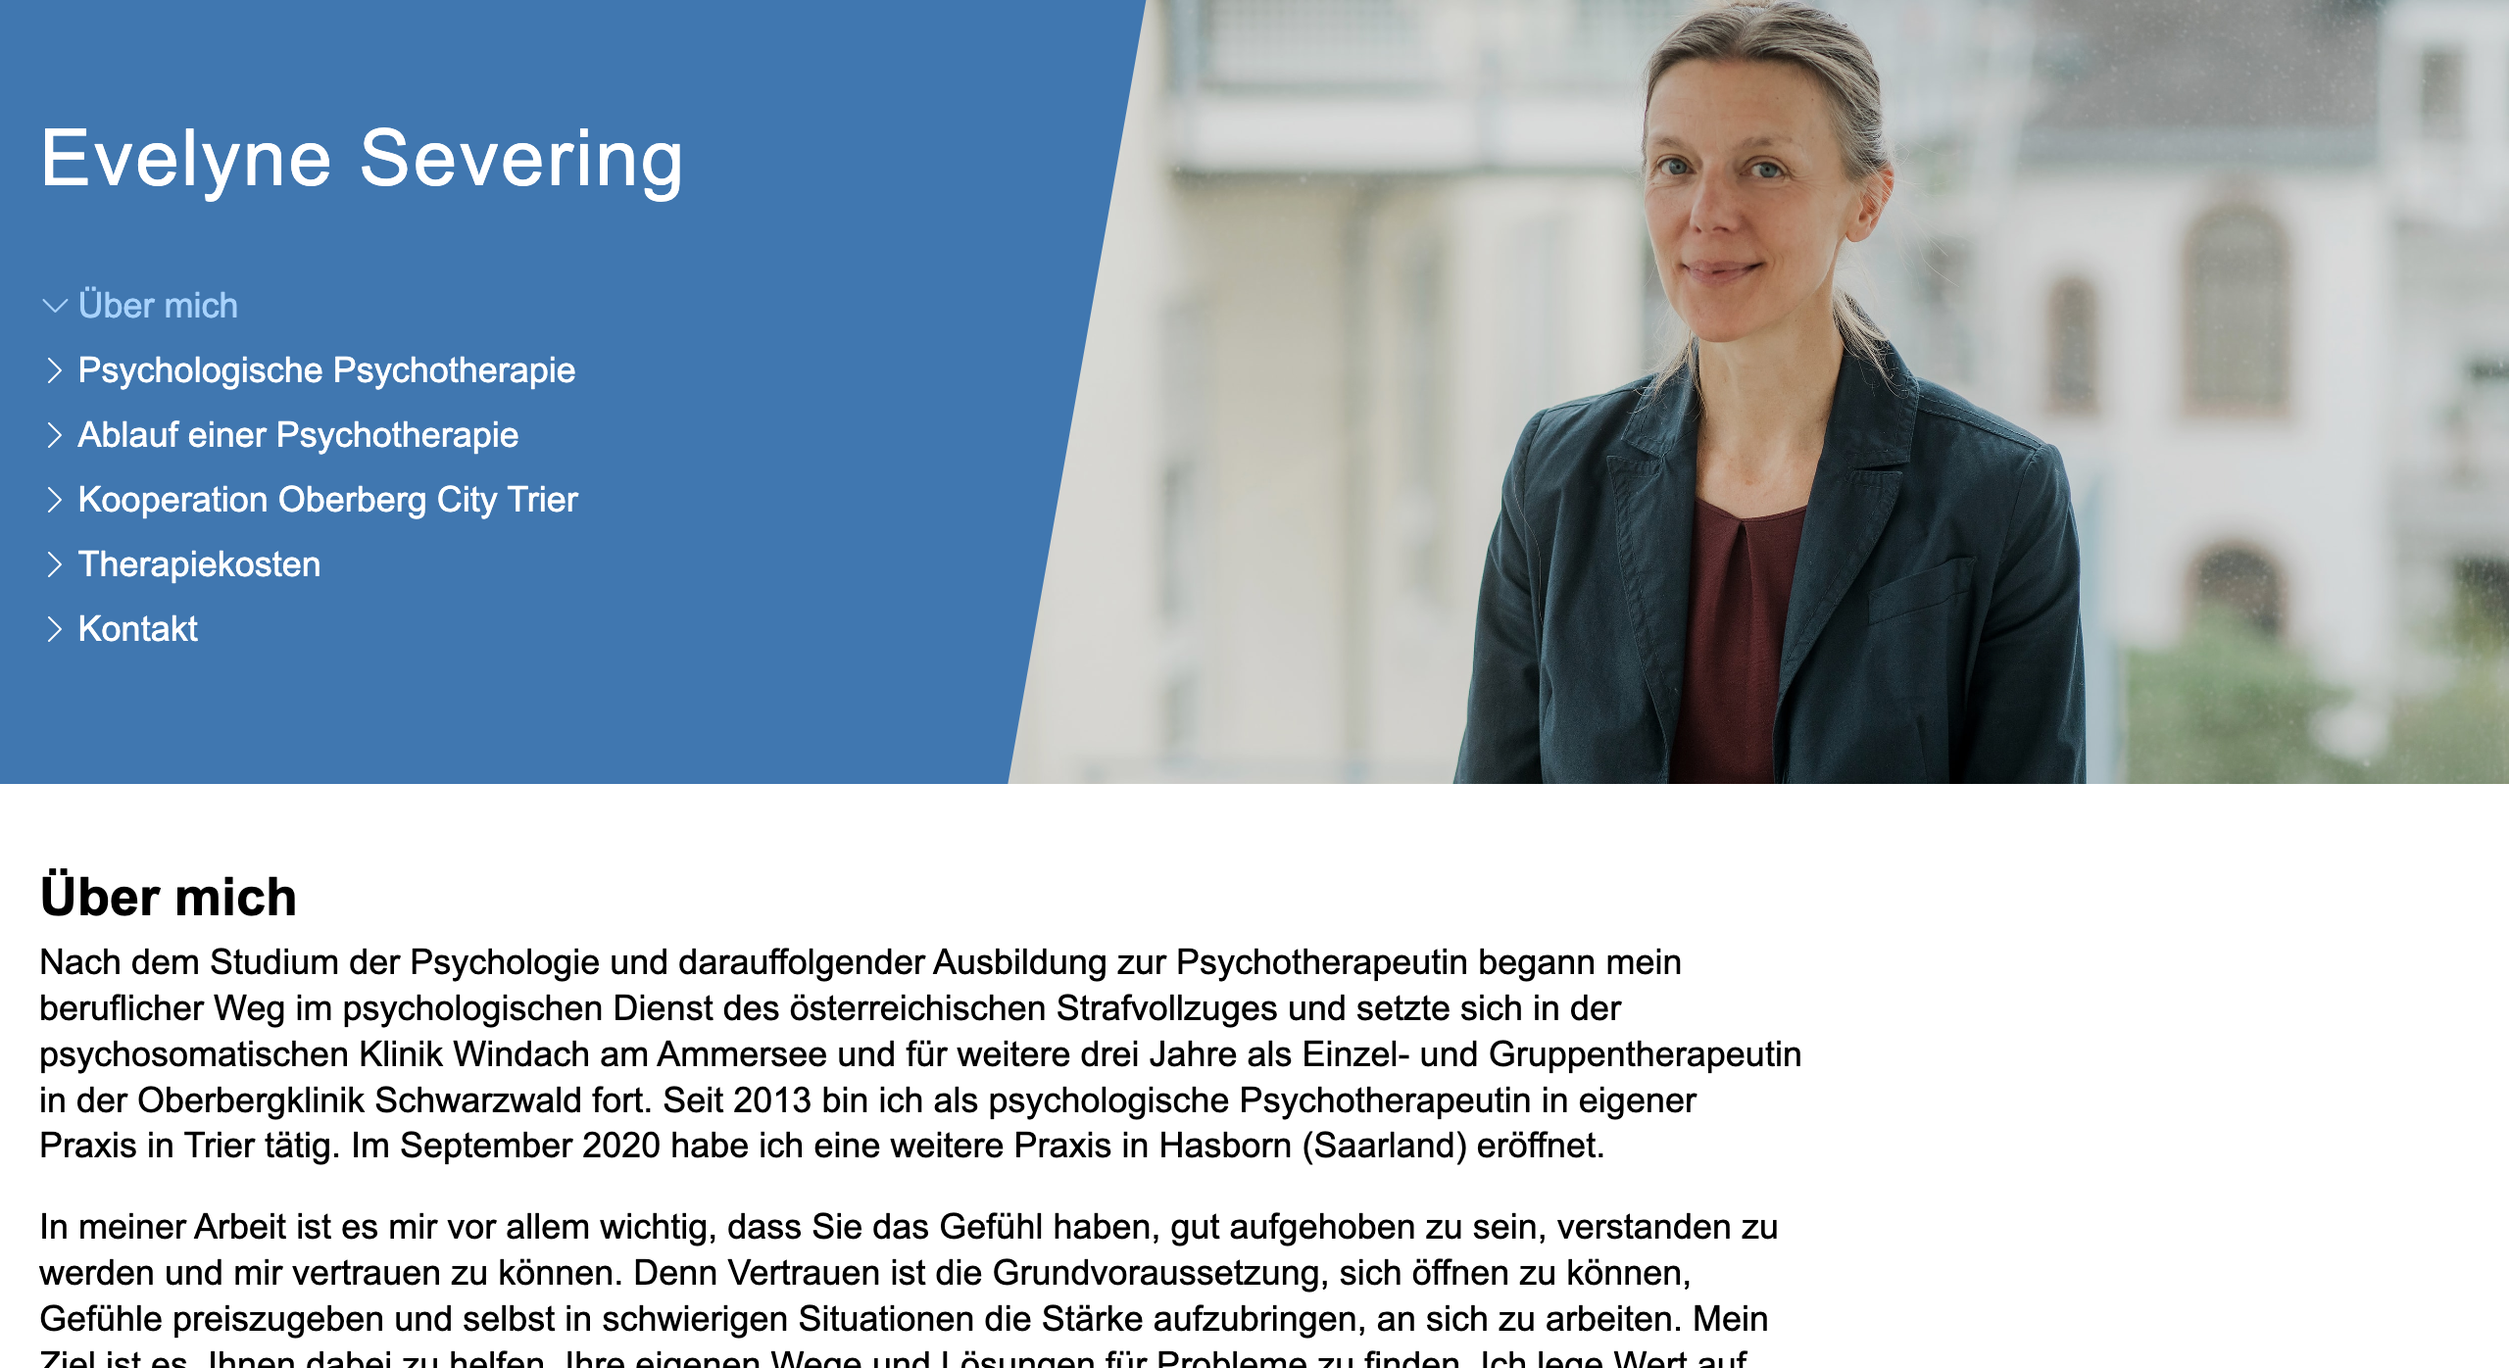
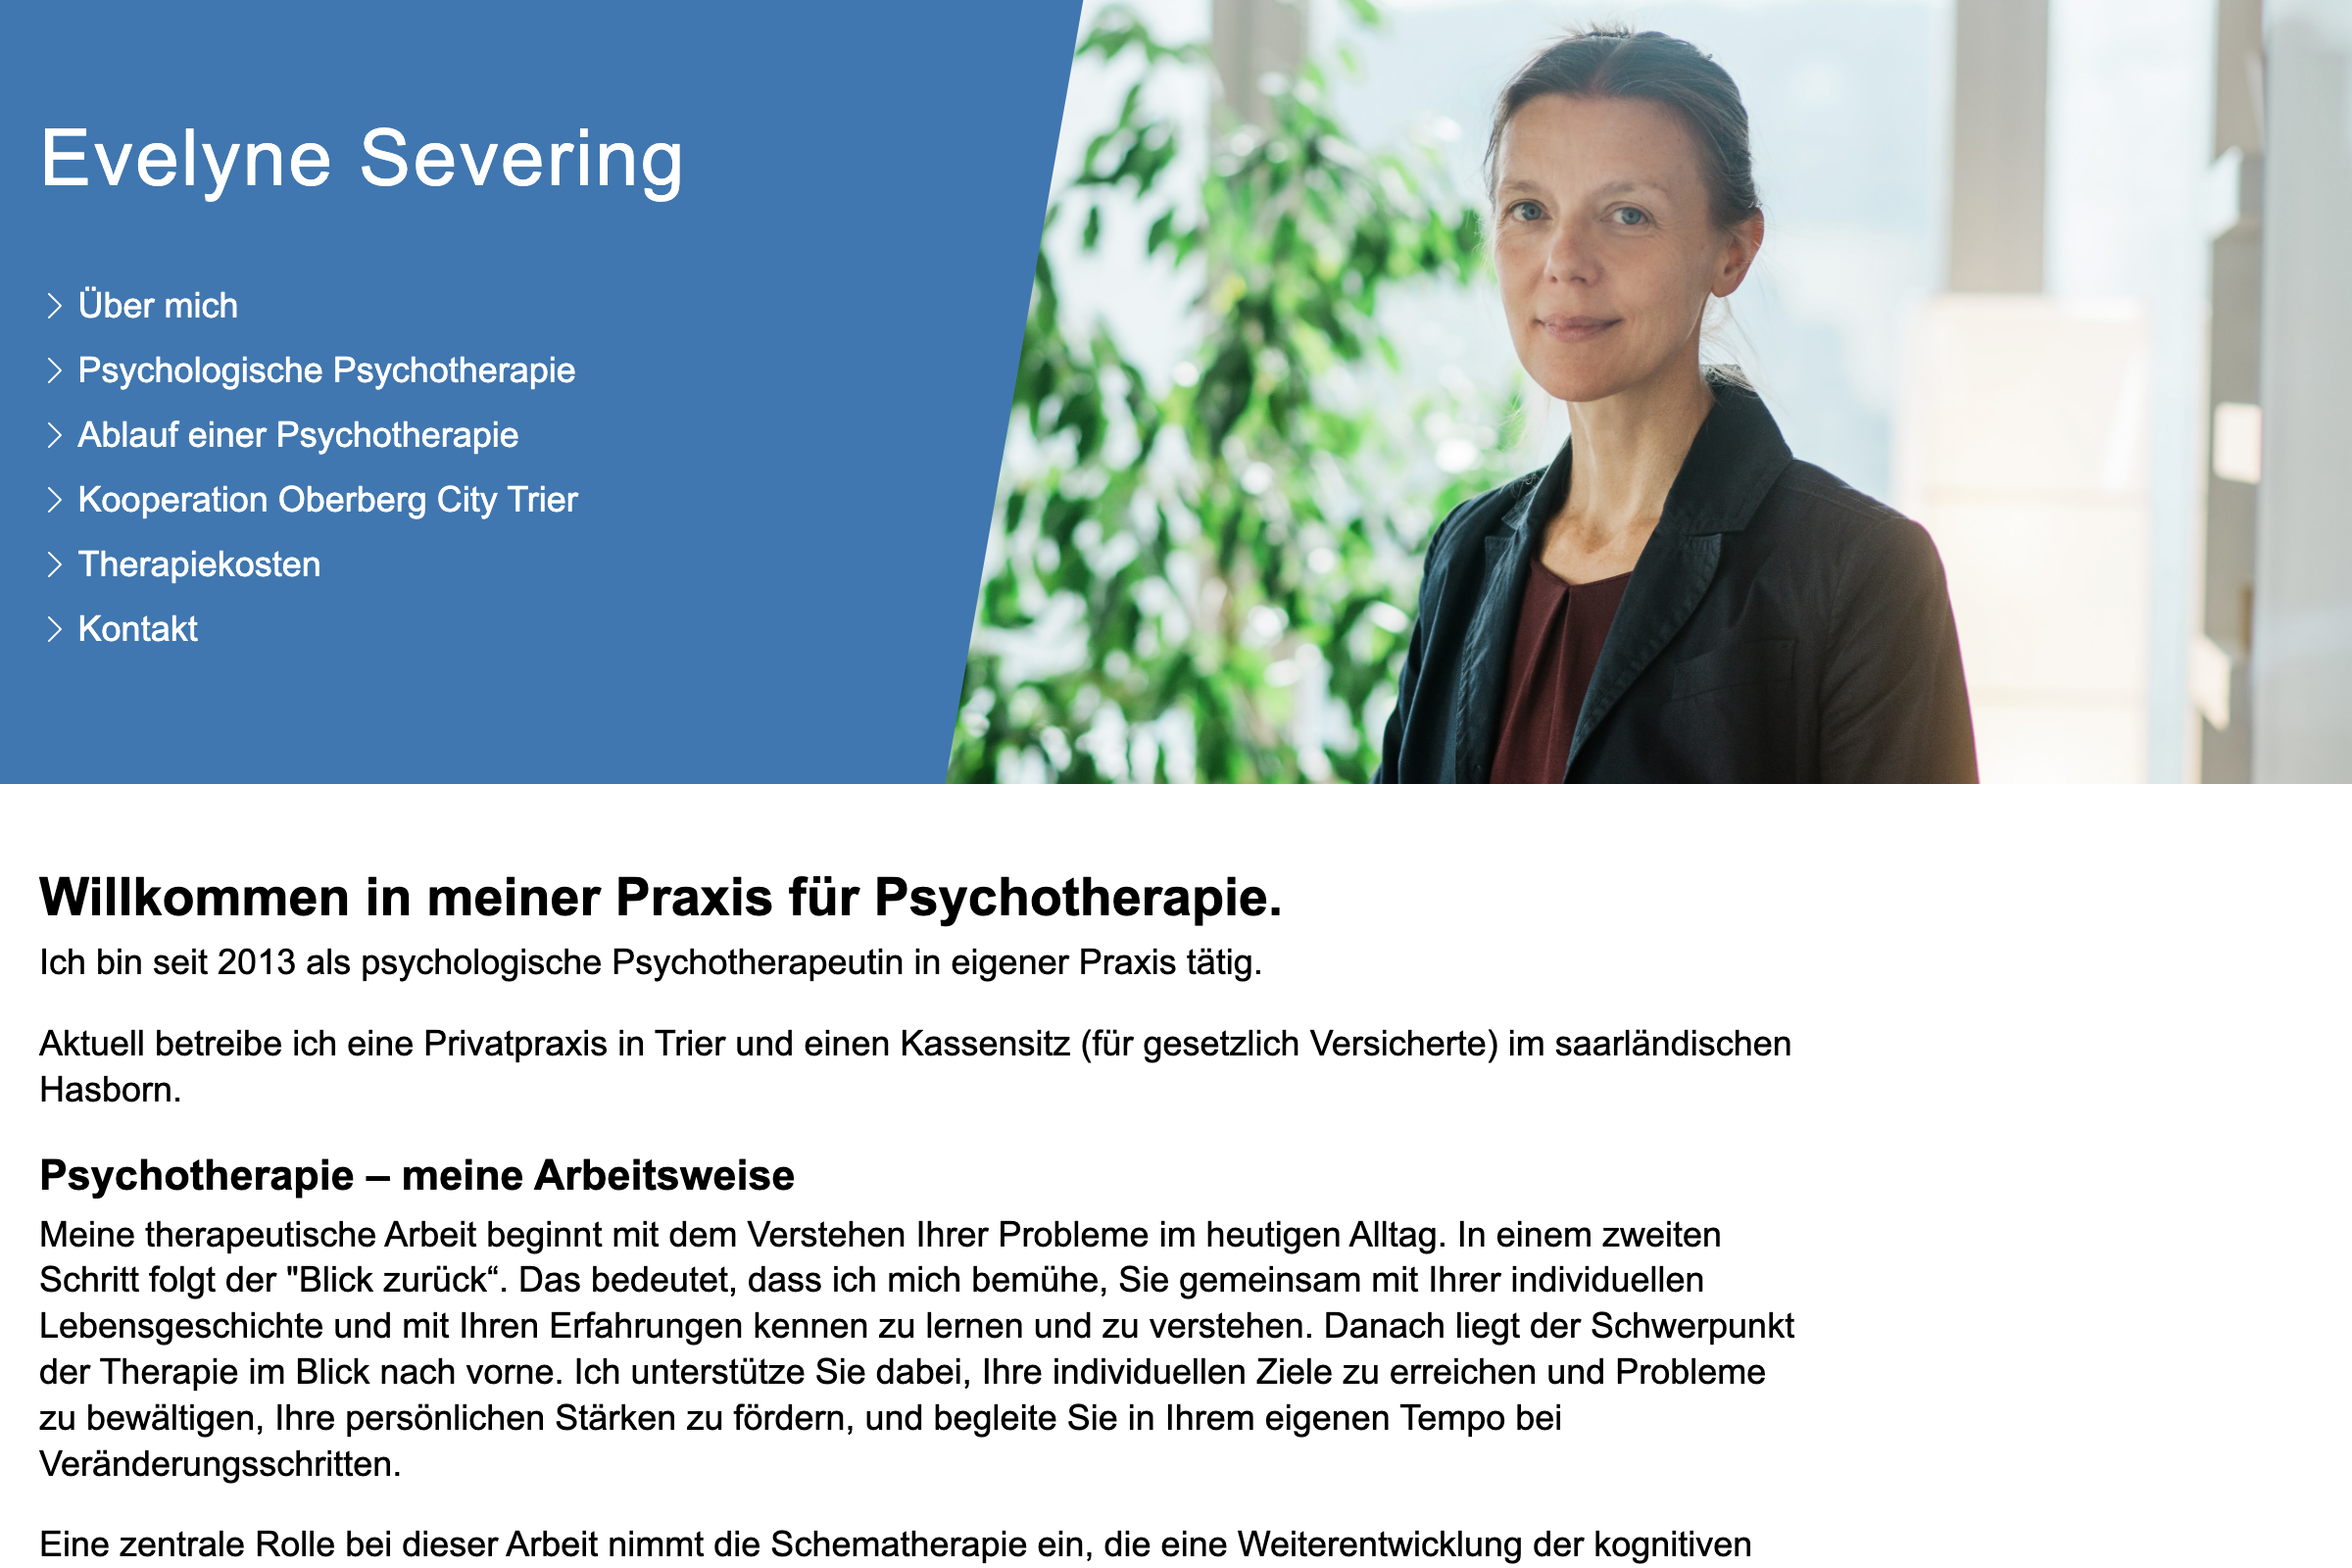
updates slider

diff --git a/app/content/pages/index.html b/app/content/pages/index.html
@@ -6,15 +6,20 @@
 			<div class="swiper-wrapper">
 				<!-- Slides -->
 				<div class="swiper-slide">
-					<img class="responsive" src="/assets/slaven2.png" alt="Website of Slaven Gluscevic" />
+					<img class="responsive" src="/assets/slaven2.png" alt="Slaven Gluscevic" />
 				</div>
 				<div class="swiper-slide">
-					<img class="responsive" src="/assets/slaven2.png" alt="Website of Slaven Gluscevic" />
+					<img class="responsive" src="/assets/rudnitzki.png" alt="Stephanie Rudnitzki - Praxis für Psychotherapie" />
 				</div>
 				<div class="swiper-slide">
-					<img class="responsive" src="/assets/slaven2.png" alt="Website of Slaven Gluscevic" />
+					<img class="responsive" src="/assets/yoga.png" alt="Open Yoga Website" />
 				</div>
-				...
+				<div class="swiper-slide">
+					<img class="responsive" src="/assets/uwe.png" alt="Website for Uwe Zimmer" />
+				</div>
+				<div class="swiper-slide">
+					<img class="responsive" src="/assets/evelyne.png" alt="Website for Evelyne " />
+				</div>
 			</div>
 			<!-- If we need pagination -->
 			<div class="swiper-pagination"></div>

diff --git a/app/content/partials/footer.html b/app/content/partials/footer.html
@@ -16,6 +16,6 @@
 		<p><a title="Validate this page" href="https://validator.w3.org/check?uri=referer">HTML5 Valid</a> |
 		<a title="Validate this page" href="https://jigsaw.w3.org/css-validator/check/referer">CSS3 Valid</a> |
 		<a title="Validate accessibility" href="https://www.accessibilitychecker.org/audit/?website=http%3A%2F%2Fsaeidmohadjer.com&flag=us">WCAG 2.1 Compliant</a></p>
-		<p>This website does not use any cookies or third party scripts or services that may track users or gather personal data.</p>
+		<p>This website does not use any cookies. Last updated on Nov 26th, 2022.</p>
 	</div>
 </footer>

diff --git a/app/resources/css/modules/_header.scss b/app/resources/css/modules/_header.scss
@@ -8,23 +8,23 @@ header {
 	}
 
 	h1 {
-		font-size: 1.8rem;
+		font-size: 1.6rem;
 		font-weight: 600;
 		display: inherit;
 
 		@media (min-width: 768px) {
-			font-size: 2.6rem;
+			font-size: 2rem;
 		}
 	}
 	
 	h2 {
-		font-size: 1rem;
+		font-size: 0.8rem;
 		font-weight: 400;
 		color: #666;
 
 		@media (min-width: 768px) {
-			margin-top: -0.25rem;
-			font-size: 1.2rem;
+			margin-top: -0.2rem;
+			font-size: 1rem;
 		}
 	}
 

diff --git a/app/resources/css/modules/_stage.scss b/app/resources/css/modules/_stage.scss
@@ -16,7 +16,6 @@
       width: 50%;
       padding: 3rem;
       border-right: solid 3px white;
-      //box-shadow: 0px 0px 5px 1px rgba(0,0,0,0.15);
     }
 
     p {
